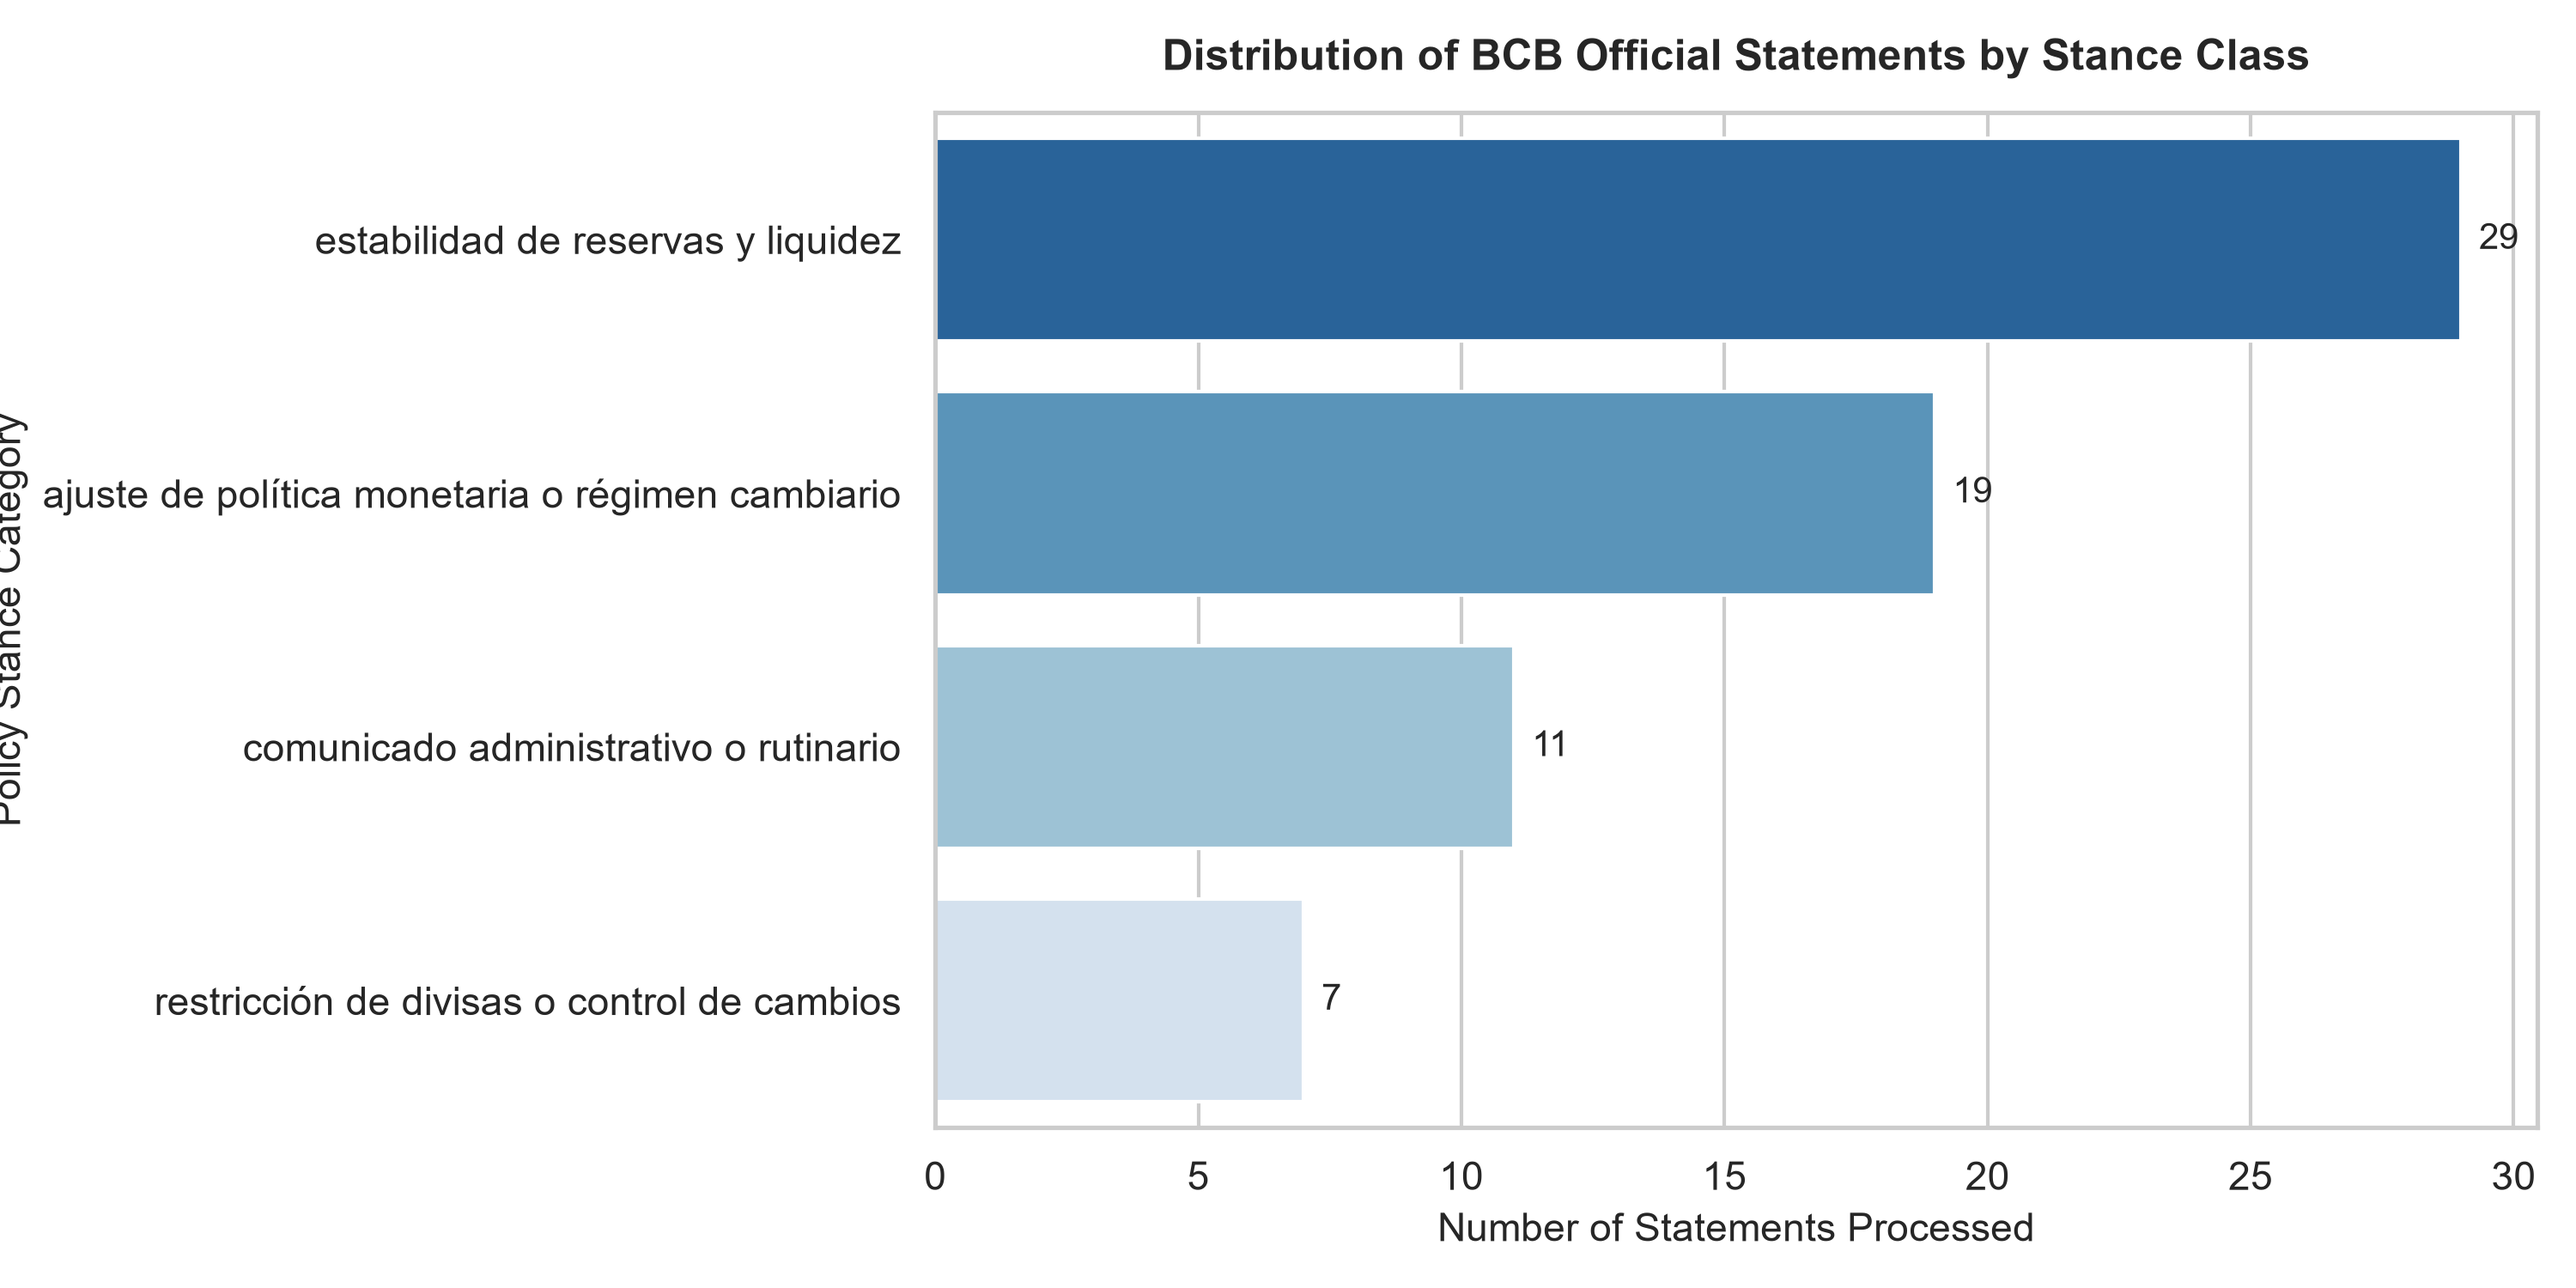
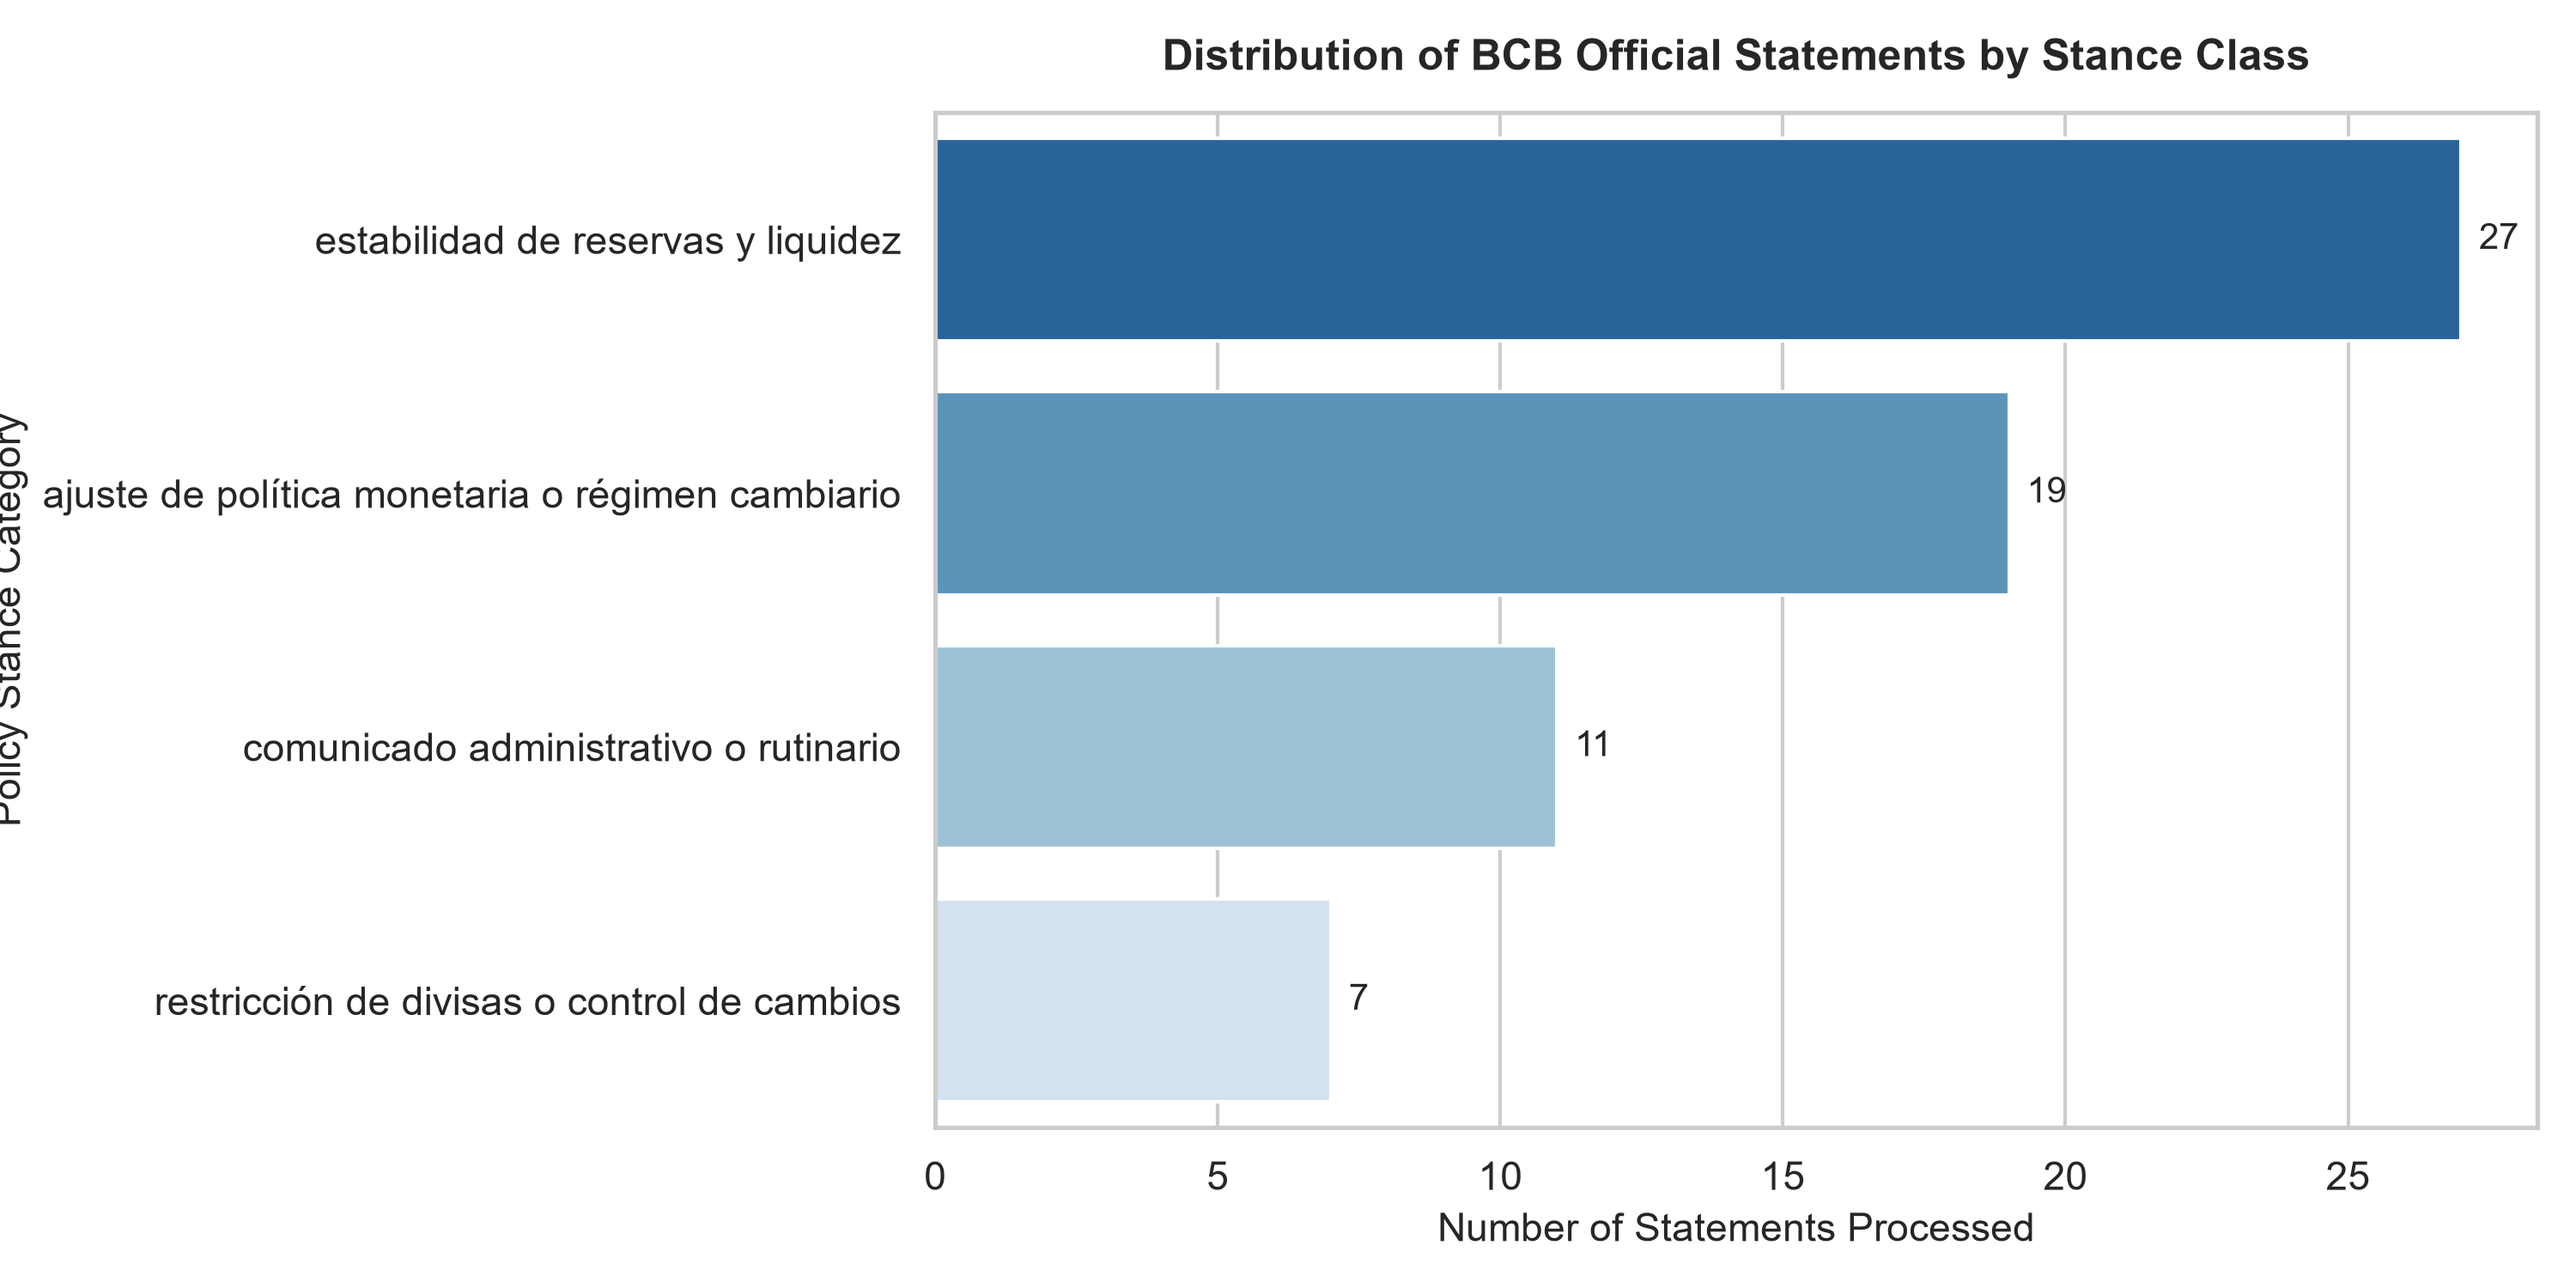
chore:complete NLP stance classifier, econometric backtest, and Monte Carlo SME risk engine

diff --git a/src/backtest_signals.py b/src/backtest_signals.py
@@ -21,7 +21,7 @@ def run_signal_backtest():
     df_fx["date"] = pd.to_datetime(df_fx["date"])
     df_fx = df_fx.sort_values("date").set_index("date")
     
-    # Calculate rolling 5-day annualized/daily volatility of the exchange rate
+    # Calculate daily returns and rolling 5-day realized volatility
     df_fx["daily_return"] = df_fx["value"].pct_change()
     df_fx["realized_vol_5d"] = df_fx["daily_return"].rolling(window=5).std()
     
@@ -32,9 +32,11 @@ def run_signal_backtest():
     merged_data = []
     for _, sig in df_signals.iterrows():
         sig_date = sig["date"]
-        # Look at FX volatility 1 to 5 days after the official statement
-        future_window = df_fx.loc[sig_date : sig_date + pd.Timedelta(days=5)]
-        if not future_window.empty:
+        
+        # Strict post-publication window: T+1 to T+5 trading days
+        future_window = df_fx.loc[df_fx.index > sig_date].head(5)
+        
+        if len(future_window) >= 3:
             avg_future_vol = future_window["realized_vol_5d"].mean()
             merged_data.append({
                 "date": sig_date,
@@ -43,24 +45,33 @@ def run_signal_backtest():
                 "is_hawkish": sig["is_hawkish"],
                 "subsequent_fx_vol": avg_future_vol
             })
-            
+                
     df_backtest = pd.DataFrame(merged_data).dropna()
     
     if df_backtest.empty:
-        print("⚠ Not enough overlapping date ranges found for backtesting.")
+        print("⚠ Not enough overlapping date ranges found.")
         return
 
+    # Handle duplicate releases on the same date by aggregating (e.g., mean intensity per date)
+    df_distinct_events = df_backtest.groupby("date").agg({
+        "intensity_score": "max",
+        "is_hawkish": "max",
+        "subsequent_fx_vol": "mean"
+    }).reset_index()
+    
     # Compute Pearson correlation to measure indicator strength
-    correlation = df_backtest["intensity_score"].corr(df_backtest["subsequent_fx_vol"])
-    print(f"\n✓ Econometric Link Established!")
-    print(f"  Pearson Correlation (NLP Intensity vs. Subsequent FX Volatility): {correlation:.4f}")
+    correlation = df_distinct_events["intensity_score"].corr(df_distinct_events["subsequent_fx_vol"])
+    print(f"\n✓ Revised Econometric Link Established:")
+    print(f"  - Total Raw Records: {len(df_backtest)}")
+    print(f"  - Distinct Event Dates: {len(df_distinct_events)}")
+    print(f"  - Pearson Correlation (Distinct Events): {correlation:.4f}")
     
     # Save backtest report
     output_dir = Path("outputs/reports")
     output_dir.mkdir(parents=True, exist_ok=True)
     report_path = output_dir / "nlp_fx_backtest_summary.csv"
-    df_backtest.to_csv(report_path, index=False)
-    print(f"  Saved backtest metrics to: {report_path}")
+    df_distinct_events.to_csv(report_path, index=False)
+    print(f"  - Saved cleaned backtest summary to: {report_path}")
 
 if __name__ == "__main__":
     run_signal_backtest()

diff --git a/README.md b/README.md
@@ -1,0 +1,99 @@
+## Central Bank Policy NLP & Exchange Rate Risk Engine
+
+[![Python](https://img.shields.io/badge/Python-3.10+-blue.svg)](https://www.python.org/)
+[![PyTorch](https://img.shields.io/badge/PyTorch-2.0+-red.svg)](https://pytorch.org/)
+[![License](https://img.shields.io/badge/License-MIT-green.svg)](LICENSE)
+
+## Executive Overview & Business Problem
+Under Bolivia's flexible exchange rate framework (Ministerial Resolution No. 245/2026 & BCB Board Resolution No. 142/2026), businesses importing goods under U.S. dollar contracts face foreign exchange risk. This repository provides an exploratory quantitative research pipeline designed to evaluate two core business questions:
+
+1. Signaling Power: How strong of an indicator is an official central bank policy communication regarding subsequent shifts in exchange rate volatility?
+
+2. Contract Risk Translation: How can small and medium enterprises (SMEs) translate central bank policy signals and market uncertainty into Value-at-Risk (VaR) cash reserve buffers for USD-denominated contracts?
+
+## Architecture & Data Pipeline
+```text
+├── data/
+│   ├── raw/                 # Raw BCB communications (JSON/PDF) & official exchange rate CSV
+│   └── processed/           # Zero-shot NLP classified signals dataset
+├── outputs/
+│   ├── figures/             # Distribution plots, backtest regressions, and density charts
+│   └── reports/             # Risk matrix scenarios and backtest summary CSVs
+├── src/
+│   ├── add_manual_pdf.py    # Batch processing utility for official announcement PDFs
+│   ├── data_collection.py   # Resilient BCB web scraper & exchange rate historical downloader
+│   ├── signal_classifier.py # Zero-Shot NLP classifier using mDeBERTa-v3
+│   ├── backtest_signals.py  # Econometric event backtest (NLP score vs. trading-day volatility)
+│   ├── monte_carlo.py       # Illustrative Geometric Brownian Motion (GBM) risk simulation
+│   └── visualize_results.py # Publication-style figures using Matplotlib and Seaborn
+└── tests/                   # Pytest suite verifying pipeline logic and numerical bounds
+```
+
+## Methodology & Model Mechanics
+
+### 1. Zero-Shot NLP Classification (src/signal_classifier.py)
+Official communications are evaluated using Hugging Face's MoritzLaurer/mDeBERTa-v3-base-mnli-xnli model across candidate policy labels:
+    - restricción de divisas o control de cambios
+    - ajuste de política monetaria o régimen cambiario
+    - estabilidad de reservas y liquidez
+    - comunicado administrativo o rutinario
+
+Classifier Mechanics: Documents are processed in chunked segments to fit model context windows. The classifier identifies the top-ranked label and its associated confidence score (intensity_score). A document is classified as hawkish / restrictive (is_hawkish = True) if the top score is $\ge 0.50$ and the top label explicitly contains restriction or adjustment keywords (restricción or ajuste).
+
+### 2. Econometric Backtesting (src/backtest_signals.py)
+To test the empirical relationship between policy statements and exchange rate dynamics, the backtesting module measures realized volatility over strict post-publication trading days ($T+1$ to $T+5$).
+    - Event Aggregation: When multiple press releases occur on the same calendar date, events are aggregated at the distinct date level to prevent duplicate observation bias.
+    - Empirical Findings: Across distinct communication event dates, the Pearson correlation between NLP hawkish intensity scores and subsequent 5-day trading volatility was -0.0740.
+    - Economic Interpretation: Official central bank statements operate primarily as administrative guidance rather than immediate short-term market volatility shocks.
+
+### 3. Scenario-Based Risk Simulation (src/monte_carlo.py)
+Because empirical backtesting shows near-zero short-term volatility correlation, the Monte Carlo simulation engine is treated strictly as an illustrative scenario analysis rather than a fitted predictive model.
+    - Simulation Framework: Uses Geometric Brownian Motion (GBM) over 30, 60, and 90-day horizons for a standard $100,000 USD SME import contract.
+    - Scenario Uplift: Compares a baseline neutral volatility scenario against a hypothetical policy shock scenario (applying an illustrative +44% volatility multiplier) to compute 95% and 99% Value-at-Risk (VaR) cash reserve buffers.
+
+## Empirical Results & Backtesting
+
+1. Signaling Power (NLP Stance vs. FX Volatility)
+- Pearson Correlation: $r = -0.0740$
+- Interpretation: The empirical correlation between central bank hawkish intensity scores and subsequent 5-day exchange rate volatility is near zero. This indicates that official central bank statements in managed flexible regimes act primarily as administrative guidance and anchoring signals rather than drivers of immediate short-term market shocks.
+
+2. SME Executive Risk Matrix ($100,000 USD Import Contract)Below is an excerpt from outputs/reports/sme_contract_risk_matrix.csv:
+
+| Scenario Name | Horizon (Days) | Spot Rate (Bs/USD) | NLP Hawkish Signal | Volatility Multiplier | 95% VaR Rate (Bs/USD) | Recommended Hedged Cost (Bs) | Required Reserve Buffer (Bs) | 
+|-------------|-------|-------|------|------|---------|------|---------|
+| Baseline (Neutral) | 30 | 12.50 | False | 1.000 | 12.82 | 1,282,000.00 | 32,000.00 |
+| Post-Policy Shock | 30 | 12.50 | True | 1.440 | 12.96 | 1,296,000.00 | 46,000.00 |
+| Baseline (Neutral) |60 | 12.50 | False | 1.000 | 12.95 | 1,295,000.00 | 45,000.00 |
+| Post-Policy Shock | 60 | 12.50 | True | 1.440 | 13.16 | 1,316,000.00 | 66,000.00 |
+| Baseline (Neutral) | 90 | 12.50 |False | 1.000 | 13.06 | 1,306,000.00 | 56,000.00 |
+| Post-Policy Shock | 90 | 12.50 | True | 1.440 | 13.31 | 1,331,000.00 | 81,000.00 |
+
+* Key Takeaway: Under a high hawkish policy shock scenario over a 90-day settlement horizon, an SME importing $100,000 USD worth of goods must hold an additional Bs 81,000 in reserve above nominal cost (compared to Bs 56,000 under baseline conditions) to achieve 95% settlement certainty.
+
+## Installation & Execution Guide
+### 1. Environment Setup
+Clone the repository and install requirements.
+
+### 2. Running the Analytical Pipeline
+Run the modular pipeline sequentially:
+1. Scrape raw BCB press notes and download exchange rates
+python src/data_collection.py
+python src/add_manual_pdf.py
+2. Run Zero-Shot NLP stance classification
+python src/signal_classifier.py
+3. Execute the econometric backtest
+python src/backtest_signals.py
+4. Generate Monte Carlo scenario simulations
+python src/monte_carlo.py
+5. Output figures and visualizations
+python src/visualize_results.py
+
+### 3. Running Unit Tests
+Validate code functionality and numerical constraints:
+pytest -v
+
+## Engineering Approach & AI Disclosure
+- Domain Modeling & System Architecture: Human engineering defined the core business problem, regulatory context (RM 245/2026 & RD 142/2026), quantitative scenario design, and backtest specifications.
+- AI Collaboration: AI tools were utilized to assist in drafting boilerplate web scraping handlers, configuring Hugging Face zero-shot pipelines, refining Seaborn styling parameters, and structuring test coverage.
+- Validation & Character Encoding: All source files, CSV reports, and Markdown documentations are encoded in UTF-8 without BOM to preserve proper rendering of Spanish characters and mathematical notation.
+
